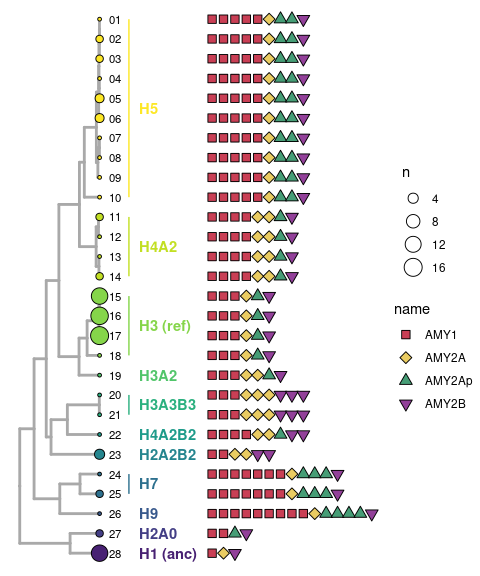
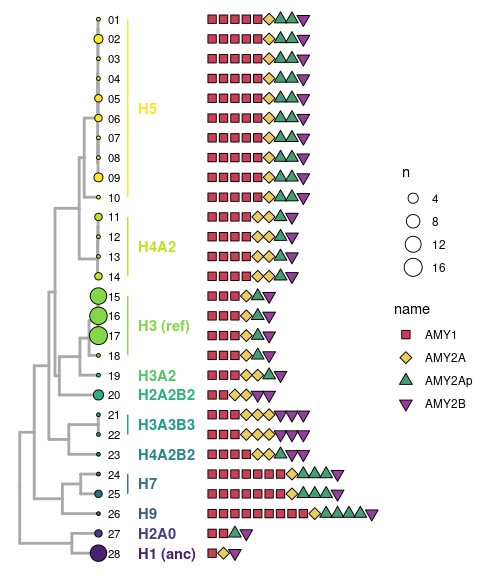
minor update on the coalescent tree

diff --git a/HPRC_AMY_Sequences/bundle_tree/bundle_tree.md b/HPRC_AMY_Sequences/bundle_tree/bundle_tree.md
@@ -67,9 +67,9 @@ structure_tree <- read.newick("../combined_y1_y2_analyses/output/pggb_clusters/h
     # treeio::drop.tip(tip = c("HG002.verkko_filt_pat.fa-haplotype2-0000649_147937390_148315979_1"))
 amy_color <- MetBrewer::met.brewer("Klimt", 4, "discrete")
 group_color <- viridis::viridis(n = 12, direction = -1)
-haplotype_fct_order <- c("H5", "H4A2", "H3 (ref)", "H3A2", "H3A3B3", "H4A2B2", "H2A2B2", "H7", "H9", "H2A0", "H1 (anc)")
+haplotype_fct_order <- c("H5", "H4A2", "H3 (ref)", "H3A2", "H2A2B2", "H3A3B3", "H4A2B2", "H7", "H9", "H2A0", "H1 (anc)")
 cladelab_df <- tibble(name=haplotype_fct_order %>% as_factor(),
-                      node=c(40, 37, 50, 20, 55, 26, 25, 33, 3, 2, 1))
+                      node=c(42, 39, 53, 24, 23, 36, 6, 33, 3, 2, 1))
 structure_ggtree <- structure_tree %>%
   as_tibble() %>%
   mutate(label=str_replace_all(label, "-", "_"),
@@ -498,6 +498,18 @@ bundle0_tree +
 ![](bundle_tree_files/figure-gfm/unnamed-chunk-13-1.png)<!-- -->
 
 ``` r
+## TMRCA
+bundle0_tree$data %>%
+  filter(node %in% c(100)) %>%
+  transmute(node, ky_before_present=(650000-x)/1000)
+```
+
+    ## # A tibble: 1 × 2
+    ##    node ky_before_present
+    ##   <int>             <dbl>
+    ## 1   100              279.
+
+``` r
 ## amy2a+amy2b expansion time range
 bundle0_tree$data %>%
   filter(node %in% c(161, 162, 163, 166, 167)) %>%
@@ -765,6 +777,7 @@ bundle0_vs_bundle1_opposing_trees
 
 ``` r
 ggsave("figures/bundle0_vs_bundle1_opposing_trees.pdf", bundle0_vs_bundle1_opposing_trees, width = 10, height = 12, unit="in")
+ggsave("figures/bundle0_vs_bundle1_opposing_trees.png", bundle0_vs_bundle1_opposing_trees, width = 10, height = 12, unit="in")
 ```
 
 #### Plot with 3 trees
